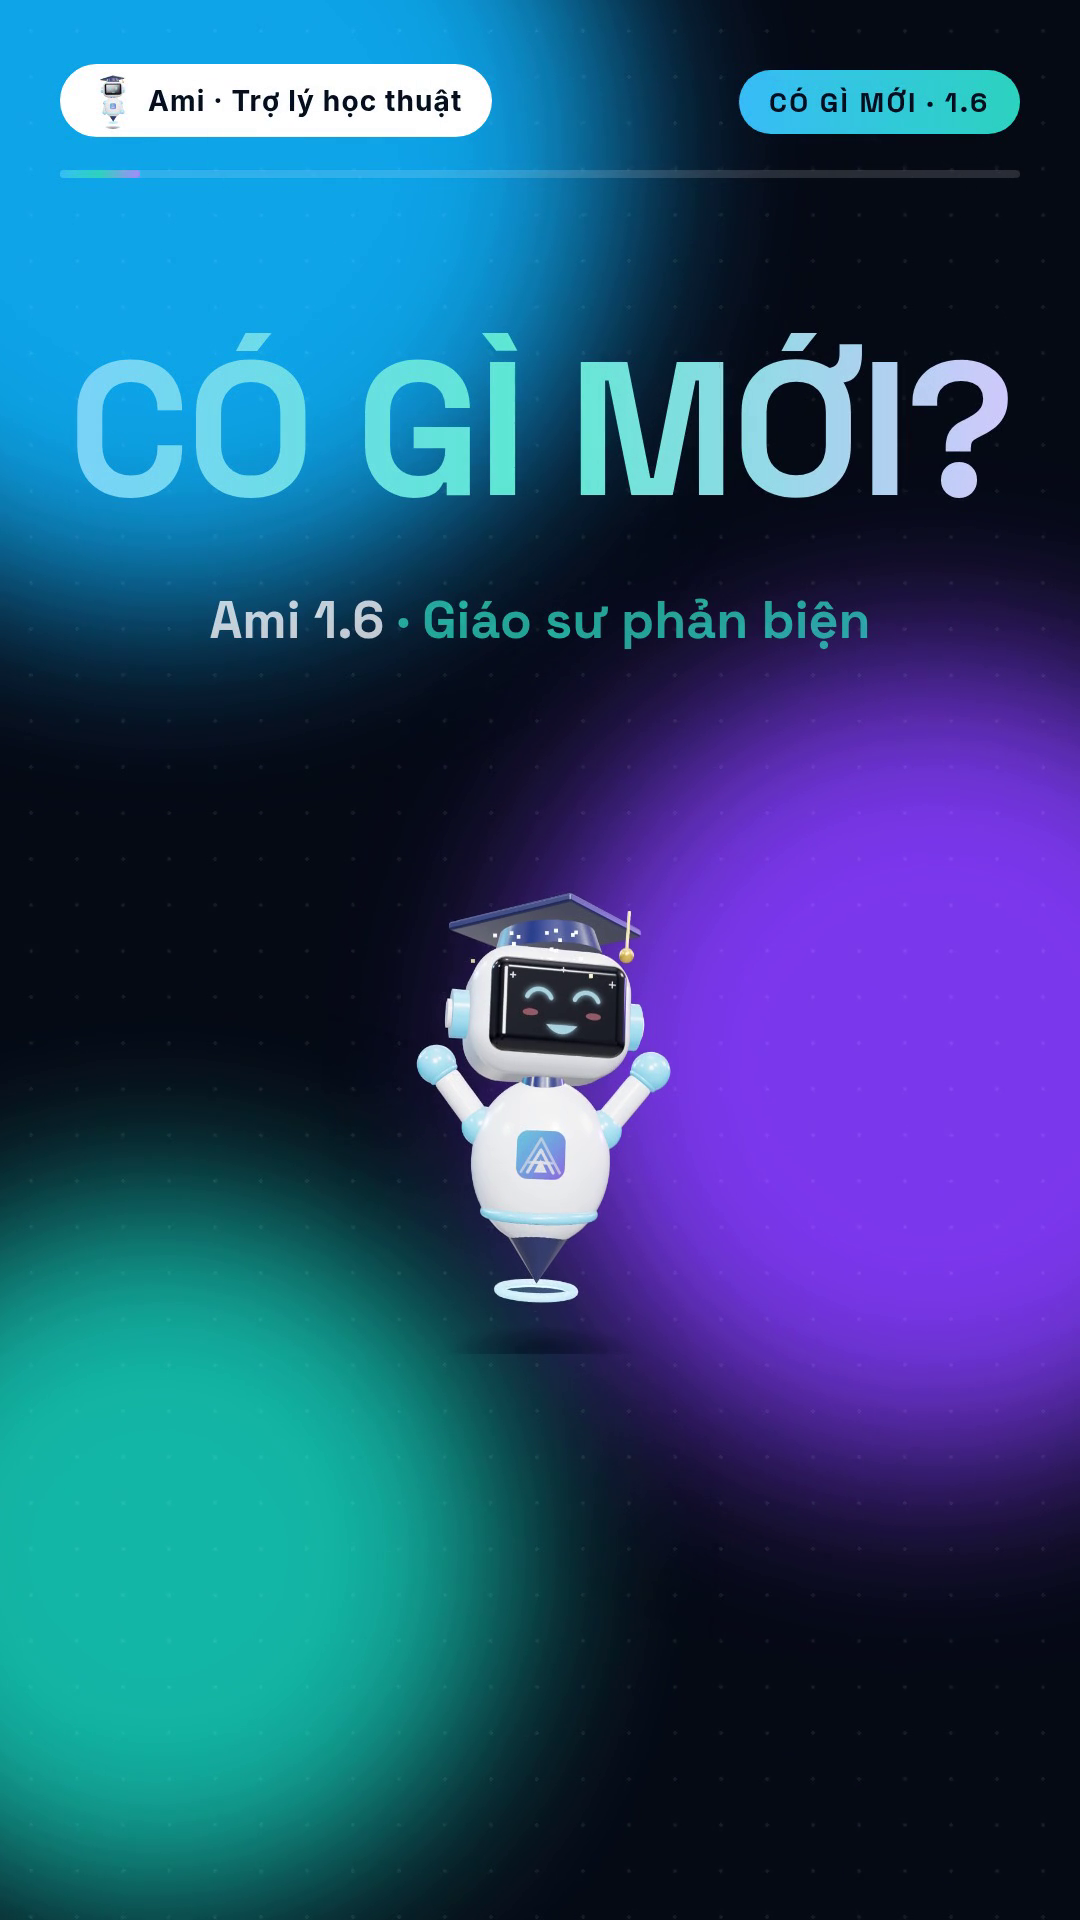
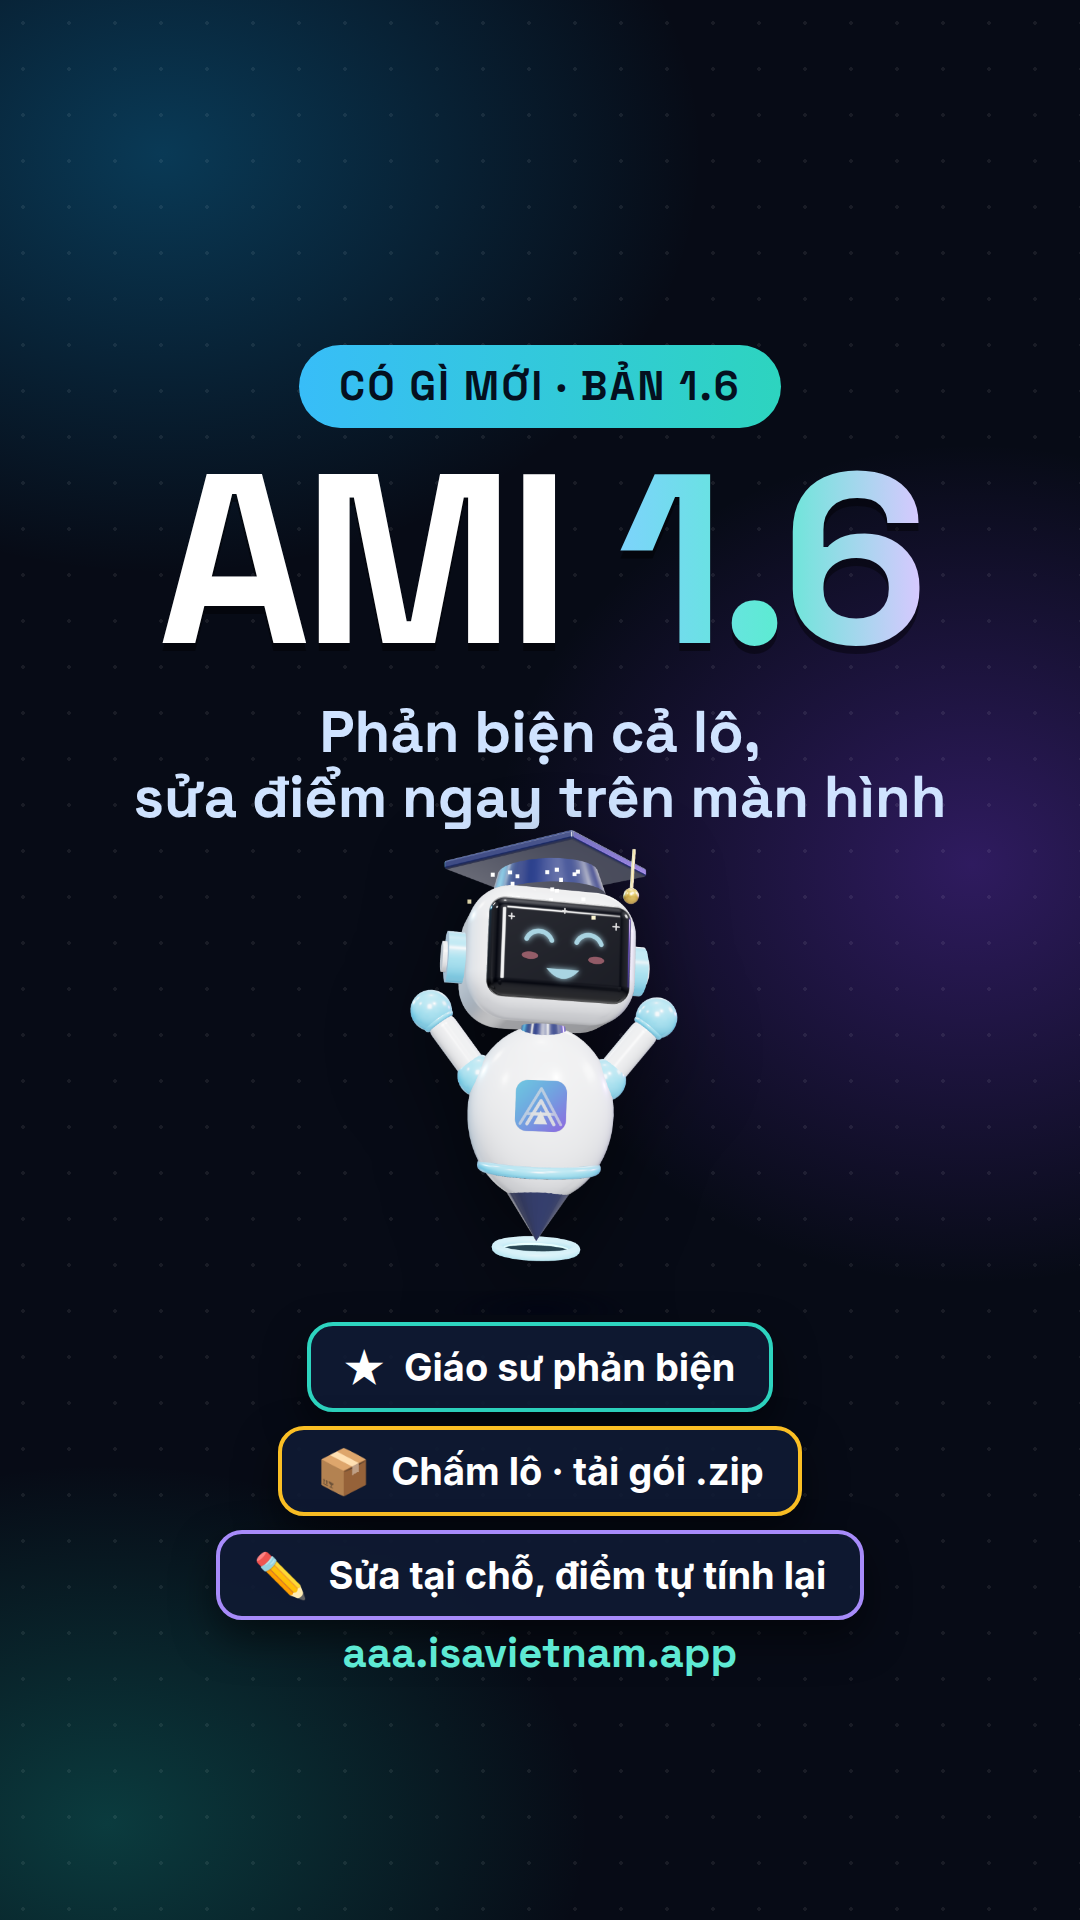
Ảnh bìa clip Ami 1.6 (9:16 và 4:5)
Claude-Session: https://claude.ai/code/session_01K8vE6rjk499ruXbZoEkPC7

diff --git a/marketing/video/moi60/cover.html b/marketing/video/moi60/cover.html
@@ -1,0 +1,25 @@
+<!doctype html><html lang="vi"><head><meta charset="utf-8"><title>Ảnh bìa clip Ami 1.6</title>
+<link rel="stylesheet" href="assets/fonts.css">
+<style>
+*{box-sizing:border-box;margin:0;padding:0}
+html,body{width:1080px;height:1920px;overflow:hidden;background:#070b16}
+#c{position:relative;width:1080px;height:1920px;overflow:hidden;font-family:'Inter',sans-serif;color:#eef2fb;background:radial-gradient(900px 700px at 15% 8%,rgba(14,165,233,.30),transparent 60%),radial-gradient(800px 700px at 90% 45%,rgba(124,58,237,.34),transparent 60%),radial-gradient(800px 600px at 10% 95%,rgba(20,184,166,.28),transparent 60%),#070b16}
+.dots{position:absolute;inset:0;background-image:radial-gradient(rgba(255,255,255,.07) 2px,transparent 2px);background-size:46px 46px}
+.hd{font-family:'Space Grotesk','Inter',sans-serif;font-weight:700}
+.abs{position:absolute}
+.pill{display:inline-flex;align-items:center;gap:12px;font-weight:800;border-radius:99px;white-space:nowrap}
+.grad{background:linear-gradient(90deg,#7dd3fc,#5eead4 50%,#d8c8ff);-webkit-background-clip:text;background-clip:text;color:transparent}
+.chip{display:flex;align-items:center;gap:20px;font-weight:800;font-size:38px;padding:14px 34px;border-radius:26px;background:rgba(15,26,51,.92);border:4px solid var(--c);color:#fff;box-shadow:0 18px 40px rgba(0,0,0,.5);white-space:nowrap}
+.chip i{font-style:normal;font-size:44px}
+</style></head><body><div id="c"><div class="dots"></div>
+<div class="abs" style="left:0;top:0;width:1080px;text-align:center;top:345px"><div class="pill hd" style="background:linear-gradient(90deg,#38bdf8,#2dd4bf);color:#04101f;font-size:40px;padding:16px 40px;letter-spacing:.06em">CÓ GÌ MỚI · BẢN 1.6</div></div>
+<div class="abs hd" style="left:0;top:440px;width:1080px;text-align:center;font-size:240px;line-height:1;letter-spacing:-.03em;color:#fff;filter:drop-shadow(0 8px 0 rgba(0,0,0,.4))">AMI <span class="grad">1.6</span></div>
+<div class="abs hd" style="left:60px;top:700px;width:960px;text-align:center;font-size:58px;line-height:1.12;color:#cfe3ff">Phản biện cả lô,<br>sửa điểm ngay trên màn hình</div>
+<img class="abs" src="assets/ami-celebrate.png" style="left:340px;top:815px;width:400px;filter:drop-shadow(0 30px 40px rgba(0,0,0,.5))">
+<div class="abs" style="left:60px;top:1322px;width:960px;display:flex;flex-direction:column;gap:14px;align-items:center">
+ <div class="chip" style="--c:#2dd4bf"><i>★</i>Giáo sư phản biện</div>
+ <div class="chip" style="--c:#fbbf24"><i>📦</i>Chấm lô · tải gói .zip</div>
+ <div class="chip" style="--c:#a78bfa"><i>✏</i>Sửa tại chỗ, điểm tự tính lại</div>
+</div>
+<div class="abs hd" style="left:0;top:1626px;width:1080px;text-align:center;font-size:42px;color:#5eead4">aaa.isavietnam.app</div>
+</div></body></html>

diff --git a/marketing/video/moi60/README.md b/marketing/video/moi60/README.md
@@ -1,7 +1,7 @@
 # Clip "Ami 1.6: có gì mới" (60 giây, 1080×1920, lời đọc tiếng Việt)
 
 - `../ami-1.6-moi-60s.vi.mp4`: clip dọc 9:16, 60 giây, 30 khung/giây, lời đọc bằng giọng ElevenLabs "Việt Hoàng - MC" (giọng nhân bản của tác giả), nhạc nền và hiệu ứng âm thanh. Không in phụ đề; chữ trên màn hình chỉ là giao diện ứng dụng và các nhãn ngắn.
-- `../ami-1.6-moi-60s-cover.png`: ảnh bìa (giây 5).
+- `../ami-1.6-moi-60s-cover.png` (9:16) và `../ami-1.6-moi-60s-cover-4x5.png` (4:5, cắt phần giữa cho lưới hồ sơ): ảnh bìa dựng từ `cover.html`; chụp bằng `node cover.cjs <9x16.png> <4x5.png>`.
 
 ## Kịch bản
 | Giây | Cảnh | Lời đọc |
